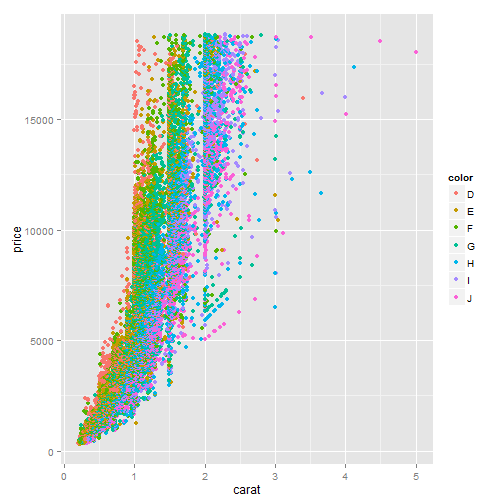
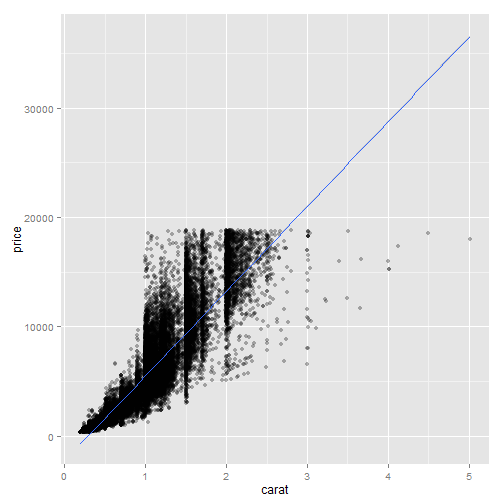
Kleine Änderungen, hoffentlich so sinnvoll

diff --git a/Schoelze/hausaufgabe16.md b/Schoelze/hausaufgabe16.md
@@ -107,7 +107,7 @@ Sie können sich auch [das *ggplot* Buch](http://dx.doi.org/10.1007/978-0-387-98
 Hier ein paar Grafiken (auch im Buch zu finden):
 
 ```r
-ggplot(diamonds, aes(x = carat, y = price, color = color)) + geom_point()
+ggplot(diamonds, aes(x = carat, y = price)) + geom_point(alpha = 0.3) + geom_smooth(method = "lm")
 ```
 
 ![plot of chunk unnamed-chunk-4](figure/unnamed-chunk-41.png) 
@@ -131,3 +131,164 @@ Haben Sie dabei explorativ oder konfirmativ gearbeitet? Was hat das für eine Au
 
 # Lizenz
 Dieses Werk ist lizenziert unter einer CC-BY-NC-SA Lizenz.
+
+# Analyse
+UV = price
+ 
+Haben Klarheit und/oder Schliff Einfluss auf den Preis? Wenn ja, gibt es Interaktionen?
+
+
+```r
+ggplot(diamonds) + geom_violin(aes(x = clarity, y = price, color = clarity, 
+    fill = clarity), alpha = 0.5)
+```
+
+![plot of chunk unnamed-chunk-5](figure/unnamed-chunk-51.png) 
+
+```r
+
+ggplot(data = diamonds) + geom_density(aes(x = price, color = clarity, fill = clarity), 
+    alpha = 0.3)
+```
+
+![plot of chunk unnamed-chunk-5](figure/unnamed-chunk-52.png) 
+
+```r
+
+ggplot(diamonds) + geom_violin(aes(x = cut, y = price, color = cut, fill = cut), 
+    alpha = 0.5)
+```
+
+![plot of chunk unnamed-chunk-5](figure/unnamed-chunk-53.png) 
+
+```r
+
+ggplot(data = diamonds) + geom_density(aes(x = price, color = cut, fill = cut), 
+    alpha = 0.3)
+```
+
+![plot of chunk unnamed-chunk-5](figure/unnamed-chunk-54.png) 
+
+Lineare Regression
+
+```r
+clarity.numeric <- as.numeric(diamonds$clarity)
+lm.clarity <- lm(price ~ clarity.numeric, data = diamonds)
+
+summary(lm.clarity)
+```
+
+```
+## 
+## Call:
+## lm(formula = price ~ clarity.numeric, data = diamonds)
+## 
+## Residuals:
+##    Min     1Q Median     3Q    Max 
+##  -4673  -2673  -1466   1151  16277 
+## 
+## Coefficients:
+##                 Estimate Std. Error t value Pr(>|t|)    
+## (Intercept)       5373.2       45.1   119.1   <2e-16 ***
+## clarity.numeric   -355.6       10.3   -34.5   <2e-16 ***
+## ---
+## Signif. codes:  0 '***' 0.001 '**' 0.01 '*' 0.05 '.' 0.1 ' ' 1
+## 
+## Residual standard error: 3950 on 53938 degrees of freedom
+## Multiple R-squared:  0.0216,	Adjusted R-squared:  0.0215 
+## F-statistic: 1.19e+03 on 1 and 53938 DF,  p-value: <2e-16
+```
+
+```r
+
+cut.numeric <- as.numeric(diamonds$cut)
+
+lm.cut <- lm(price ~ cut.numeric, data = diamonds)
+
+summary(lm.cut)
+```
+
+```
+## 
+## Call:
+## lm(formula = price ~ cut.numeric, data = diamonds)
+## 
+## Residuals:
+##    Min     1Q Median     3Q    Max 
+##  -4151  -2894  -1537   1390  15083 
+## 
+## Coefficients:
+##             Estimate Std. Error t value Pr(>|t|)    
+## (Intercept)   4678.9       62.4    75.0   <2e-16 ***
+## cut.numeric   -191.1       15.4   -12.4   <2e-16 ***
+## ---
+## Signif. codes:  0 '***' 0.001 '**' 0.01 '*' 0.05 '.' 0.1 ' ' 1
+## 
+## Residual standard error: 3980 on 53938 degrees of freedom
+## Multiple R-squared:  0.00286,	Adjusted R-squared:  0.00284 
+## F-statistic:  155 on 1 and 53938 DF,  p-value: <2e-16
+```
+
+Beide unabhängige Variablen haben einen signifikanten p-Wert und damit Einfluss auf den Preis.
+
+ANOVA:
+
+```r
+ANOVA0 <- aov(price ~ clarity.numeric, data = diamonds)
+
+ANOVA1 <- aov(price ~ cut.numeric, data = diamonds)
+
+summary(ANOVA0)
+```
+
+```
+##                    Df   Sum Sq  Mean Sq F value Pr(>F)    
+## clarity.numeric     1 1.85e+10 1.85e+10    1188 <2e-16 ***
+## Residuals       53938 8.40e+11 1.56e+07                   
+## ---
+## Signif. codes:  0 '***' 0.001 '**' 0.01 '*' 0.05 '.' 0.1 ' ' 1
+```
+
+```r
+
+summary(ANOVA1)
+```
+
+```
+##                Df   Sum Sq  Mean Sq F value Pr(>F)    
+## cut.numeric     1 2.46e+09 2.46e+09     155 <2e-16 ***
+## Residuals   53938 8.56e+11 1.59e+07                   
+## ---
+## Signif. codes:  0 '***' 0.001 '**' 0.01 '*' 0.05 '.' 0.1 ' ' 1
+```
+
+Sowohl Klarheit als auch Schliff haben eine hochsignifikante Auswirkung auf den Preis.Der F-Wert der Klarheit ist allerdings deutlich h?her
+
+Gibt es eine Interaktion zwischen Klarheit und Schliff?
+
+
+```r
+ANOVA2 <- aov(price ~ cut.numeric * clarity.numeric, data = diamonds)
+
+summary(ANOVA2)
+```
+
+```
+##                                Df   Sum Sq  Mean Sq F value  Pr(>F)    
+## cut.numeric                     1 2.46e+09 2.46e+09   157.9 < 2e-16 ***
+## clarity.numeric                 1 1.66e+10 1.66e+10  1069.3 < 2e-16 ***
+## cut.numeric:clarity.numeric     1 4.32e+08 4.32e+08    27.8 1.4e-07 ***
+## Residuals                   53936 8.39e+11 1.56e+07                    
+## ---
+## Signif. codes:  0 '***' 0.001 '**' 0.01 '*' 0.05 '.' 0.1 ' ' 1
+```
+
+
+Die Ergebnisse sind hochsignifikant. Allerings haben sich die Residuals nicht ver?ndert, es konnte dadurch also nicht mehr Varianz erkl?rt werden.
+
+
+
+
+
+
+
